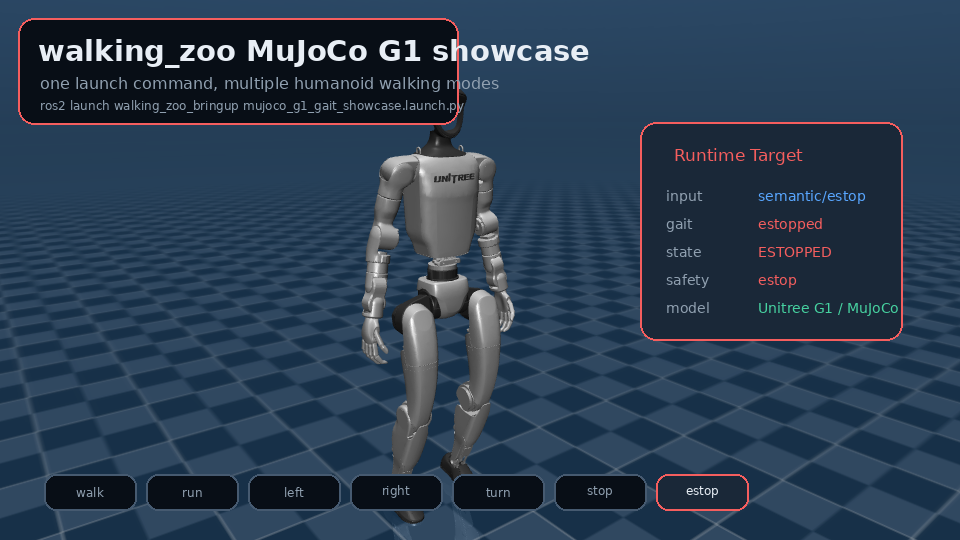
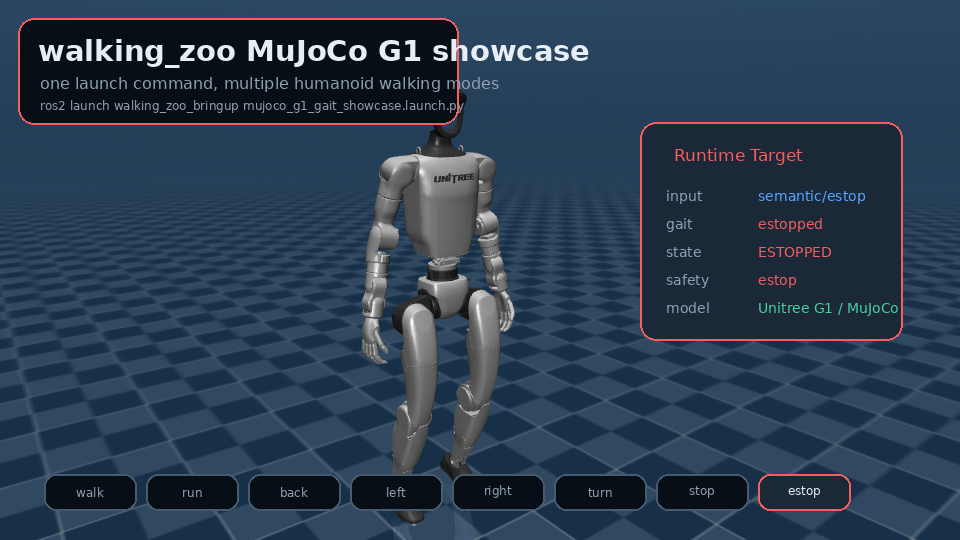
Add MuJoCo G1 walk_backward reverse gait

diff --git a/src/walking_zoo_examples/scripts/mujoco_g1_gait_demo.py b/src/walking_zoo_examples/scripts/mujoco_g1_gait_demo.py
@@ -157,6 +157,29 @@ class UnitreeG1Renderer:
         self._set_joint(qpos, "left_elbow_joint", elbow_base + elbow_amp * max(0.0, -sin_phase))
         self._set_joint(qpos, "right_elbow_joint", elbow_base + elbow_amp * max(0.0, sin_phase))
 
+    def _backward_gait(self, qpos, frame_index, sin_phase, cos_phase):
+        # Careful reverse step: short stride, slight backward torso lean, and
+        # cautious arms held forward for balance so the motion clearly reads as
+        # walking backward rather than forward playback reversed.
+        qpos[0] = -0.016 * frame_index
+        qpos[2] = 0.806 + 0.010 * max(0.0, cos_phase)
+        qpos[3:7] = self._body_quat(0.0, 0.06, 0.0)
+        for side, value in (("left", sin_phase), ("right", -sin_phase)):
+            swing = max(0.0, value)
+            self._set_joint(qpos, f"{side}_hip_pitch_joint", 0.20 * value)
+            self._set_joint(qpos, f"{side}_knee_joint", 0.16 + 0.30 * swing)
+            self._set_joint(qpos, f"{side}_ankle_pitch_joint", -0.06 - 0.10 * swing + 0.08 * value)
+        self._set_joint(qpos, "left_hip_roll_joint", 0.04 * cos_phase)
+        self._set_joint(qpos, "right_hip_roll_joint", -0.04 * cos_phase)
+        self._set_joint(qpos, "waist_pitch_joint", 0.05)
+        self._set_joint(qpos, "waist_yaw_joint", 0.04 * sin_phase)
+        self._set_joint(qpos, "left_shoulder_pitch_joint", 0.10 - 0.18 * sin_phase)
+        self._set_joint(qpos, "right_shoulder_pitch_joint", 0.10 + 0.18 * sin_phase)
+        self._set_joint(qpos, "left_shoulder_roll_joint", 0.12)
+        self._set_joint(qpos, "right_shoulder_roll_joint", -0.12)
+        self._set_joint(qpos, "left_elbow_joint", 0.55)
+        self._set_joint(qpos, "right_elbow_joint", 0.55)
+
     def pose(self, frame_index, gait):
         qpos = self.stand_qpos.copy()
         period = 18.0 if gait == "run" else (30.0 if gait == "walk" else 24.0)
@@ -185,6 +208,9 @@ class UnitreeG1Renderer:
             qpos[2] = 0.815 + 0.026 * (0.5 + 0.5 * math.cos(2.0 * phase))
             qpos[3:7] = self._body_quat(0.0, -0.07 + 0.012 * sin_phase, 0.0)
             self._forward_gait(qpos, sin_phase, cos_phase, fast=True)
+            return qpos
+        if gait == "walk_backward":
+            self._backward_gait(qpos, frame_index, sin_phase, cos_phase)
             return qpos
         if gait in ("sidestep_left", "sidestep_right"):
             direction = 1.0 if gait == "sidestep_left" else -1.0
@@ -357,6 +383,8 @@ class MujocoG1GaitDemo(Node):
             self.cmd_gait = "sidestep_left" if linear_y > 0.0 else "sidestep_right"
         elif abs(angular_z) > max(abs(linear_x), 0.08):
             self.cmd_gait = "turn_left" if angular_z > 0.0 else "turn_right"
+        elif linear_x < -0.03:
+            self.cmd_gait = "walk_backward"
         elif abs(linear_x) > 0.35:
             self.cmd_gait = "run"
         else:
@@ -371,6 +399,11 @@ class MujocoG1GaitDemo(Node):
             "forward": "walk",
             "run": "run",
             "run_forward": "run",
+            "walk_backward": "walk_backward",
+            "move_backward": "walk_backward",
+            "backward": "walk_backward",
+            "back": "walk_backward",
+            "reverse": "walk_backward",
             "sidestep": "sidestep_left",
             "sidestep_left": "sidestep_left",
             "strafe_left": "sidestep_left",

diff --git a/tools/render_mujoco_g1_showcase_gif.py b/tools/render_mujoco_g1_showcase_gif.py
@@ -183,6 +183,25 @@ class G1ShowcaseScene:
             qpos[2] = 0.815 + 0.026 * (0.5 + 0.5 * math.cos(2.0 * phase))
             qpos[3:7] = self.body_quat(0.0, -0.07 + 0.012 * sin_phase, 0.0)
             self.forward_gait(qpos, sin_phase, cos_phase, fast=True)
+        elif gait == "walk_backward":
+            qpos[0] = -0.016 * frame_index
+            qpos[2] = 0.806 + 0.010 * max(0.0, cos_phase)
+            qpos[3:7] = self.body_quat(0.0, 0.06, 0.0)
+            for side, value in (("left", sin_phase), ("right", -sin_phase)):
+                swing = max(0.0, value)
+                self.set_joint(qpos, f"{side}_hip_pitch_joint", 0.20 * value)
+                self.set_joint(qpos, f"{side}_knee_joint", 0.16 + 0.30 * swing)
+                self.set_joint(qpos, f"{side}_ankle_pitch_joint", -0.06 - 0.10 * swing + 0.08 * value)
+            self.set_joint(qpos, "left_hip_roll_joint", 0.04 * cos_phase)
+            self.set_joint(qpos, "right_hip_roll_joint", -0.04 * cos_phase)
+            self.set_joint(qpos, "waist_pitch_joint", 0.05)
+            self.set_joint(qpos, "waist_yaw_joint", 0.04 * sin_phase)
+            self.set_joint(qpos, "left_shoulder_pitch_joint", 0.10 - 0.18 * sin_phase)
+            self.set_joint(qpos, "right_shoulder_pitch_joint", 0.10 + 0.18 * sin_phase)
+            self.set_joint(qpos, "left_shoulder_roll_joint", 0.12)
+            self.set_joint(qpos, "right_shoulder_roll_joint", -0.12)
+            self.set_joint(qpos, "left_elbow_joint", 0.55)
+            self.set_joint(qpos, "right_elbow_joint", 0.55)
         elif gait in ("sidestep_left", "sidestep_right"):
             direction = 1.0 if gait == "sidestep_left" else -1.0
             qpos[1] = direction * 0.018 * frame_index
@@ -265,6 +284,7 @@ def draw_overlay(img, spec, step_name):
     labels = [
         ("walk", GREEN),
         ("run", YELLOW),
+        ("back", GREEN),
         ("left", BLUE),
         ("right", BLUE),
         ("turn", PURPLE),
@@ -282,6 +302,7 @@ def build_sequence():
     return [
         {"step": "walk", "gait": "walk", "input": "semantic/walk", "state": "WALKING", "safety": "passed", "accent": GREEN, "frames": 14},
         {"step": "run", "gait": "run", "input": "semantic/run", "state": "RUNNING", "safety": "passed", "accent": YELLOW, "frames": 14},
+        {"step": "back", "gait": "walk_backward", "input": "semantic/back", "state": "REVERSE", "safety": "passed", "accent": GREEN, "frames": 13},
         {"step": "left", "gait": "sidestep_left", "input": "semantic/sidestep_left", "state": "SIDESTEP", "safety": "passed", "accent": BLUE, "frames": 12},
         {"step": "right", "gait": "sidestep_right", "input": "semantic/sidestep_right", "state": "SIDESTEP", "safety": "passed", "accent": BLUE, "frames": 12},
         {"step": "turn", "gait": "turn_left", "input": "semantic/turn_left", "state": "TURNING", "safety": "passed", "accent": PURPLE, "frames": 14},

diff --git a/tools/render_readme_gifs.py b/tools/render_readme_gifs.py
@@ -408,6 +408,25 @@ class MujocoUnitreeG1Scene:
             qpos[2] = 0.815 + 0.026 * (0.5 + 0.5 * math.cos(2.0 * phase))
             qpos[3:7] = self._body_quat(0.0, -0.07 + 0.012 * sin_phase, 0.0)
             self._set_forward_gait(qpos, sin_phase, cos_phase, 0.62, 0.30, 0.74, -0.22, 0.22, 0.58)
+        elif gait == "walk_backward":
+            qpos[0] = -0.016 * frame_index
+            qpos[2] = 0.806 + 0.010 * max(0.0, cos_phase)
+            qpos[3:7] = self._body_quat(0.0, 0.06, 0.0)
+            for side, value in (("left", sin_phase), ("right", -sin_phase)):
+                swing = max(0.0, value)
+                self._set_joint(qpos, f"{side}_hip_pitch_joint", 0.20 * value)
+                self._set_joint(qpos, f"{side}_knee_joint", 0.16 + 0.30 * swing)
+                self._set_joint(qpos, f"{side}_ankle_pitch_joint", -0.06 - 0.10 * swing + 0.08 * value)
+            self._set_joint(qpos, "left_hip_roll_joint", 0.04 * cos_phase)
+            self._set_joint(qpos, "right_hip_roll_joint", -0.04 * cos_phase)
+            self._set_joint(qpos, "waist_pitch_joint", 0.05)
+            self._set_joint(qpos, "waist_yaw_joint", 0.04 * sin_phase)
+            self._set_joint(qpos, "left_shoulder_pitch_joint", 0.10 - 0.18 * sin_phase)
+            self._set_joint(qpos, "right_shoulder_pitch_joint", 0.10 + 0.18 * sin_phase)
+            self._set_joint(qpos, "left_shoulder_roll_joint", 0.12)
+            self._set_joint(qpos, "right_shoulder_roll_joint", -0.12)
+            self._set_joint(qpos, "left_elbow_joint", 0.55)
+            self._set_joint(qpos, "right_elbow_joint", 0.55)
         elif gait == "sidestep":
             qpos[1] = 0.018 * frame_index
             qpos[2] = 0.81 + 0.012 * max(0.0, cos_phase)

diff --git a/src/walking_zoo_vla/src/semantic_action_mapper.cpp b/src/walking_zoo_vla/src/semantic_action_mapper.cpp
@@ -21,6 +21,12 @@ SemanticMapping SemanticActionMapper::map(
     mapping.status_text = "mapped move_forward to conservative velocity";
     return mapping;
   }
+  if (action.action == "move_backward" || action.action == "walk_backward") {
+    mapping.recognized = true;
+    mapping.velocity.twist.linear.x = -0.15;
+    mapping.status_text = "mapped move_backward to conservative reverse velocity";
+    return mapping;
+  }
   if (action.action == "turn_left") {
     mapping.recognized = true;
     mapping.velocity.twist.angular.z = 0.3;

diff --git a/src/walking_zoo_examples/scripts/mujoco_g1_gait_showcase.py b/src/walking_zoo_examples/scripts/mujoco_g1_gait_showcase.py
@@ -53,6 +53,7 @@ class MujocoG1GaitShowcase(Node):
         actions = [
             "walk_forward",
             "run_forward",
+            "walk_backward",
             "sidestep_left",
             "sidestep_right",
             "turn_left",
@@ -88,6 +89,8 @@ class MujocoG1GaitShowcase(Node):
             msg.linear.x = 0.22
         elif action == "run_forward":
             msg.linear.x = 0.45
+        elif action == "walk_backward":
+            msg.linear.x = -0.18
         elif action == "sidestep_left":
             msg.linear.y = 0.22
         elif action == "sidestep_right":

diff --git a/README.md b/README.md
@@ -137,6 +137,7 @@ ros2 topic pub /cmd_vel geometry_msgs/msg/Twist "{linear: {x: 0.25}, angular: {z
 Or switch gaits through semantic actions:
 
 ```bash
+ros2 topic pub /walking_zoo/semantic_action walking_zoo_msgs/msg/SemanticAction "{action: 'walk_backward'}" --once
 ros2 topic pub /walking_zoo/semantic_action walking_zoo_msgs/msg/SemanticAction "{action: 'sidestep_left'}" --once
 ros2 topic pub /walking_zoo/semantic_action walking_zoo_msgs/msg/SemanticAction "{action: 'turn_right'}" --once
 ```
@@ -151,8 +152,8 @@ Run the one-command gait showcase to capture multiple walking styles:
 ros2 launch walking_zoo_bringup mujoco_g1_gait_showcase.launch.py
 ```
 
-The showcase automatically steps through forward walk, forward run, sidestep,
-turn-in-place, stop, and the runtime e-stop gate. It writes
+The showcase automatically steps through forward walk, forward run, reverse
+walk, sidestep, turn-in-place, stop, and the runtime e-stop gate. It writes
 `/tmp/walking_zoo_mujoco_g1_showcase/latest.png` and `live.gif`.
 
 Run the runtime proof version to capture the GIF plus ROS2 topic trace:

diff --git a/CHANGELOG.md b/CHANGELOG.md
@@ -19,3 +19,4 @@
 - Runtime trace recorder and MuJoCo G1 runtime showcase launch with JSON/Markdown demo artifacts.
 - Demo evidence documentation and richer runtime trace validator output.
 - Improved MuJoCo Unitree G1 run gait pose, cadence, body lean, and README GIF assets.
+- Added `walk_backward` reverse gait to the MuJoCo Unitree G1 visualizer, gait showcase sequence, hero showcase GIF, and a `move_backward` semantic-to-velocity runtime mapping.